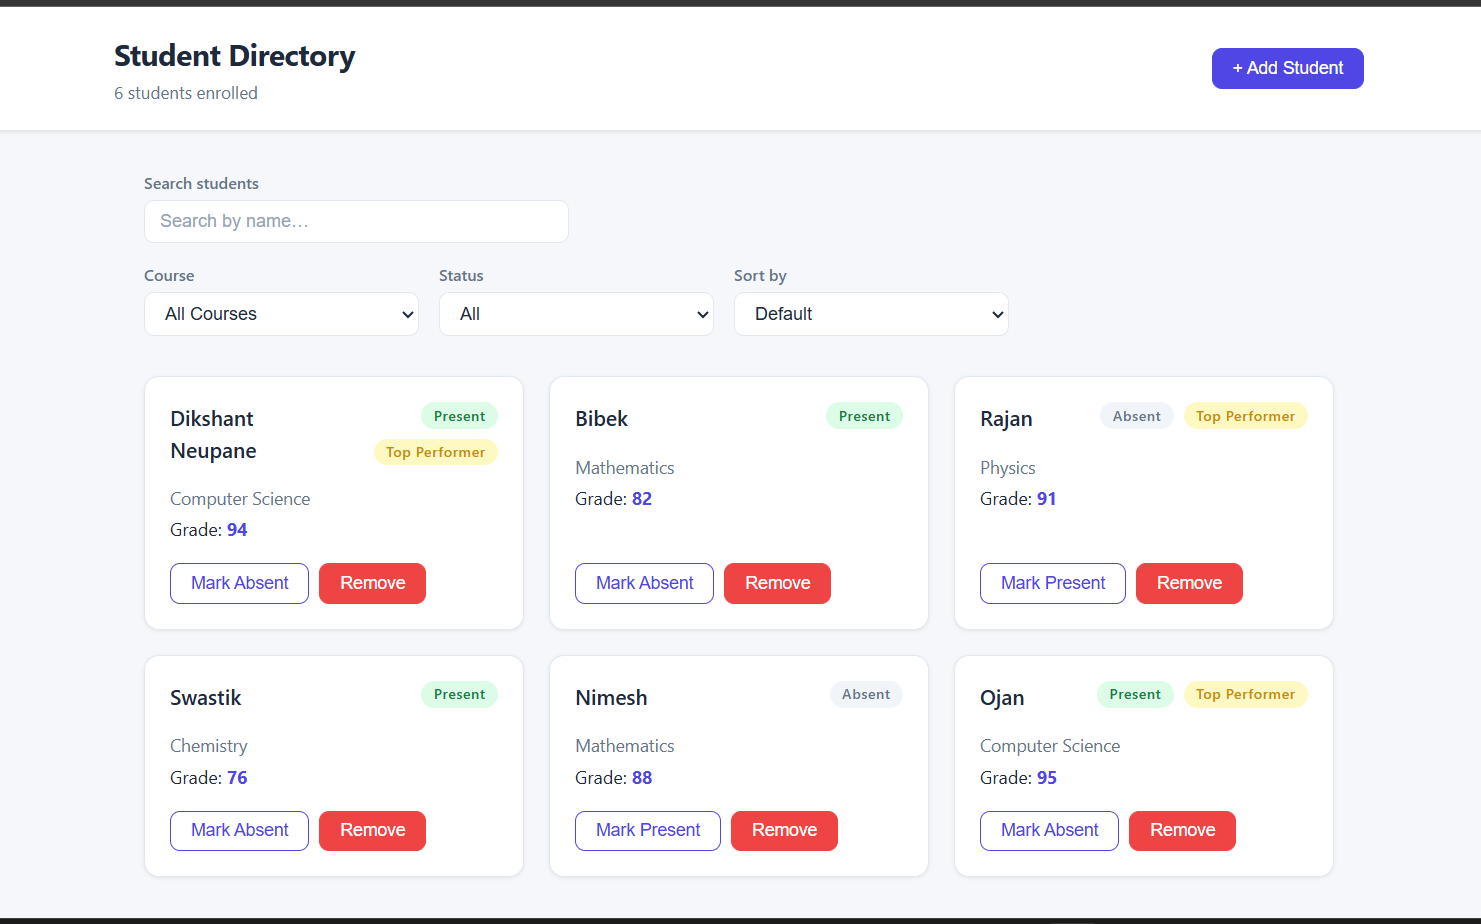
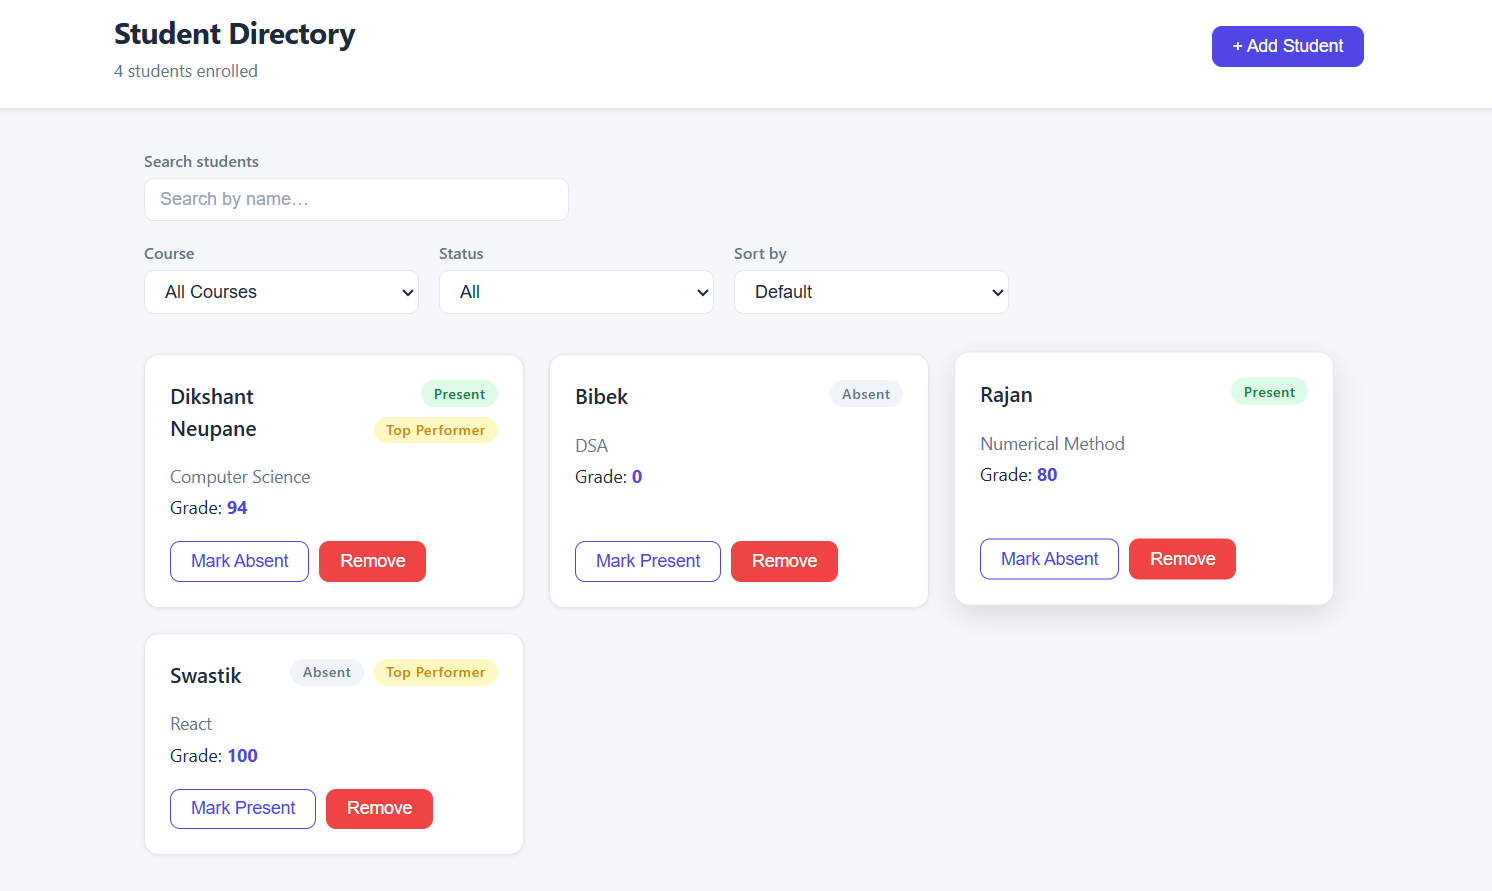
update screenshot

diff --git a/student-directory/src/App.jsx b/student-directory/src/App.jsx
@@ -16,11 +16,20 @@ const INITIAL_STUDENTS = [
 const COURSES = ['Mathematics', 'DSA', 'React', 'Numerical Method'];
 
 function loadStudents() {
+  // normalize existing course names to the new COURSES list
+  const courseMap = {
+    'Computer Science': 'DSA',
+    'Physics': 'Numerical Method',
+    'Chemistry': 'React'
+  };
+
   try {
     const stored = localStorage.getItem('students');
-    return stored ? JSON.parse(stored) : INITIAL_STUDENTS;
+    const list = stored ? JSON.parse(stored) : INITIAL_STUDENTS;
+    const normalized = list.map(s => ({ ...s, course: courseMap[s.course] ?? s.course }));
+    return normalized;
   } catch {
-    return INITIAL_STUDENTS;
+    return INITIAL_STUDENTS.map(s => ({ ...s, course: courseMap[s.course] ?? s.course }));
   }
 }
 
